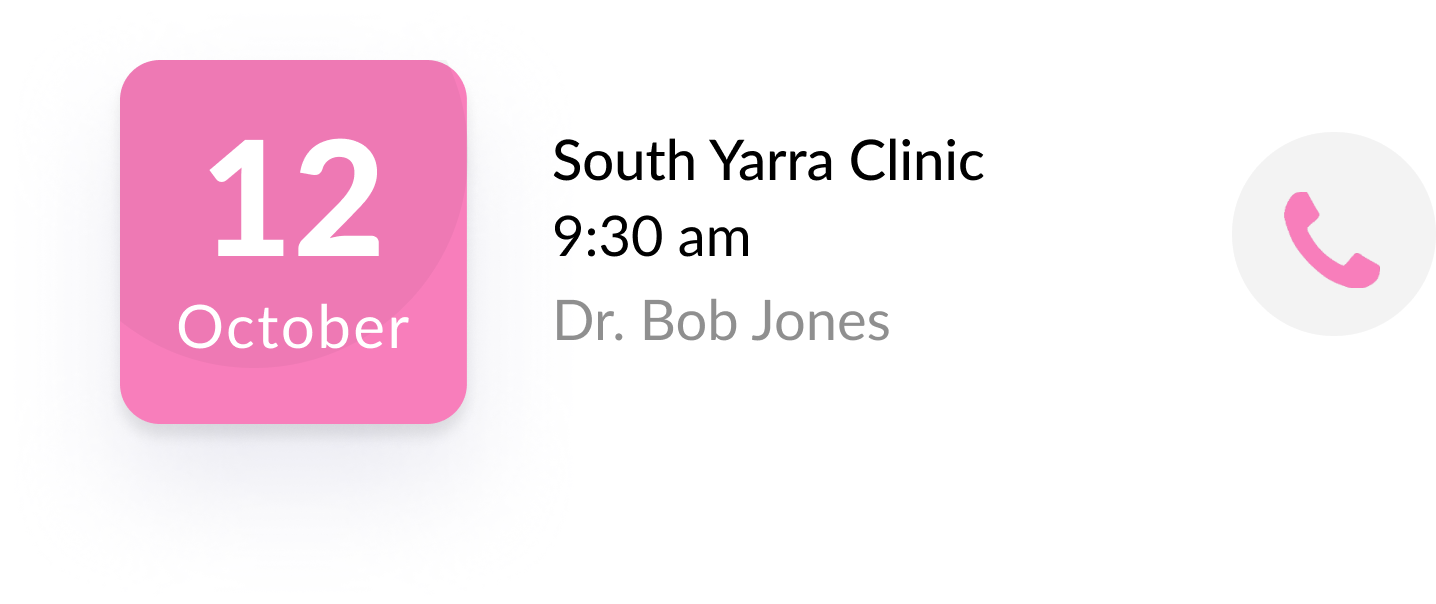
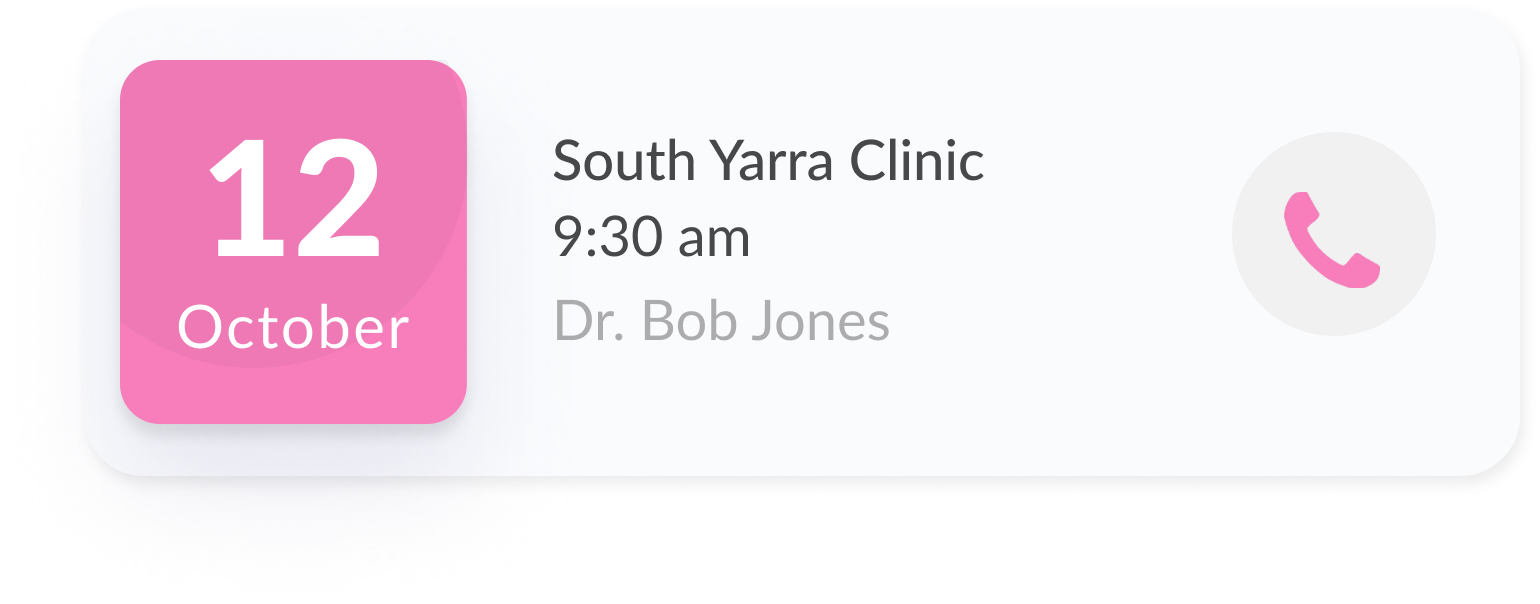
started from the bottom, now we here

diff --git a/screens/Home.tsx b/screens/Home.tsx
@@ -10,12 +10,22 @@ const imageHeight = 150
 export default function Home(){
     return(
         <SafeAreaView style={styles.container}>
-            <View style={styles.cardContainer}>
-                <TouchableOpacity style ={styles.button1}>
+            <View style={styles.headerContent1}>
+                <Text style={styles.textStyle}>Upcoming Appointments</Text>
+            </View>
+            <TouchableOpacity style ={styles.button2}>
                     <Image
                         source={require("../assets/appointmentOne.png")}
                         resizeMode="contain"
                         style={styles.appointment1}
+                    ></Image>
+                </TouchableOpacity>
+            <View>
+                <TouchableOpacity style ={styles.button1}>
+                    <Image
+                        source={require("../assets/appointmenttoo.png")}
+                        resizeMode="contain"
+                        style={styles.appointment2}
                     ></Image>
                 </TouchableOpacity>
             </View>
@@ -28,7 +38,7 @@ export default function Home(){
                 </TouchableOpacity>
             <SafeAreaView style={styles.bottomContainer}>
                 <View style={styles.headerContent}>
-                    <Text style={styles.textStyle}>Medications</Text>
+                    <Text style={styles.textStyle}>Your Medications</Text>
                 </View>
                 <ScrollView
                     contentContainerStyle={styles.scrollViewContainerStyle}
@@ -84,6 +94,13 @@ const styles = StyleSheet.create({
         top: 5,
         justifyContent: "center"
       },
+      headerContent1: {
+        paddingLeft: 40,
+        position: 'absolute',
+        left: -10,
+        top: 82,
+        justifyContent: "center"
+      },
     textStyle: {
         fontSize: 20,
         color: "#807B7B",
@@ -125,12 +142,14 @@ const styles = StyleSheet.create({
     bookImage: {
         paddingHorizontal: 20,
         position: 'relative',
-        top: 70,
+        top: 100,
         width: '100%',
         height: '100%'
     },
     button1: {
-        alignItems: 'center'
+        alignItems: 'center',
+        top: 100,
+        paddingHorizontal: 20
     },
     appointment1: {
         paddingHorizontal: 20,
@@ -147,5 +166,20 @@ const styles = StyleSheet.create({
         height: '100%',
         position: "absolute",
         top: 0
-    }
+    },
+    appointment2: {
+        paddingHorizontal: 0,
+        paddingRight: 10,
+        position: 'absolute',
+        top: 40,
+        alignItems: 'center',
+        width: 400,
+        height: 400,
+        left: 4
+    },
+    button2: {
+        alignItems: 'center',
+        top: 0,
+        paddingHorizontal: 20
+    },
   });
